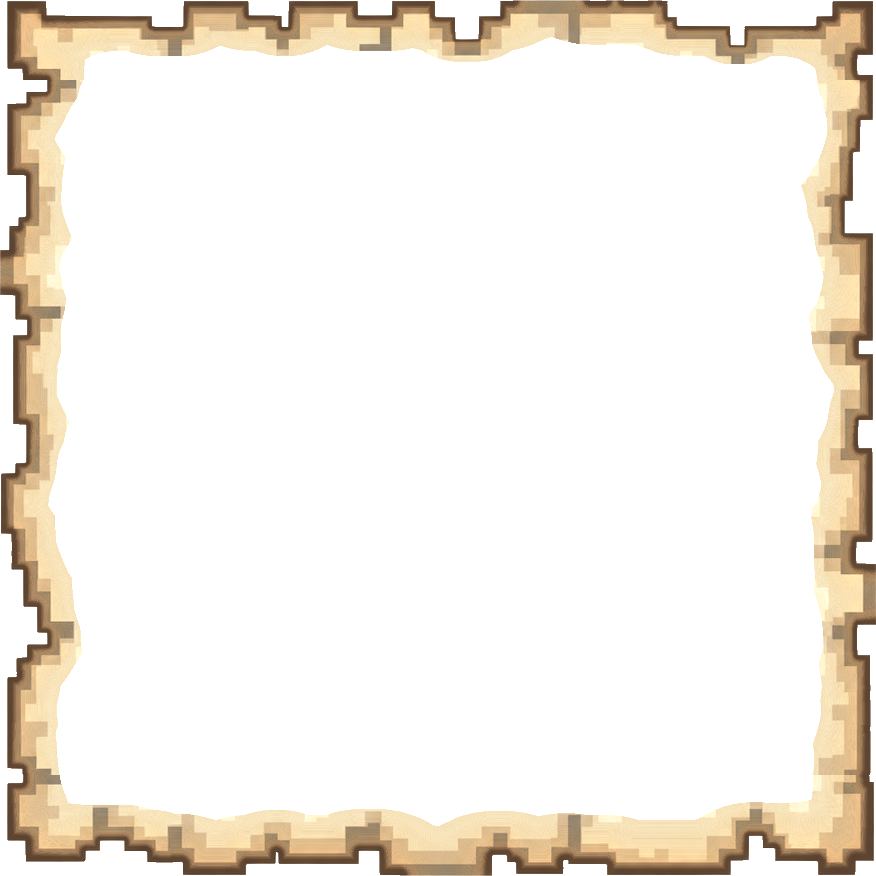
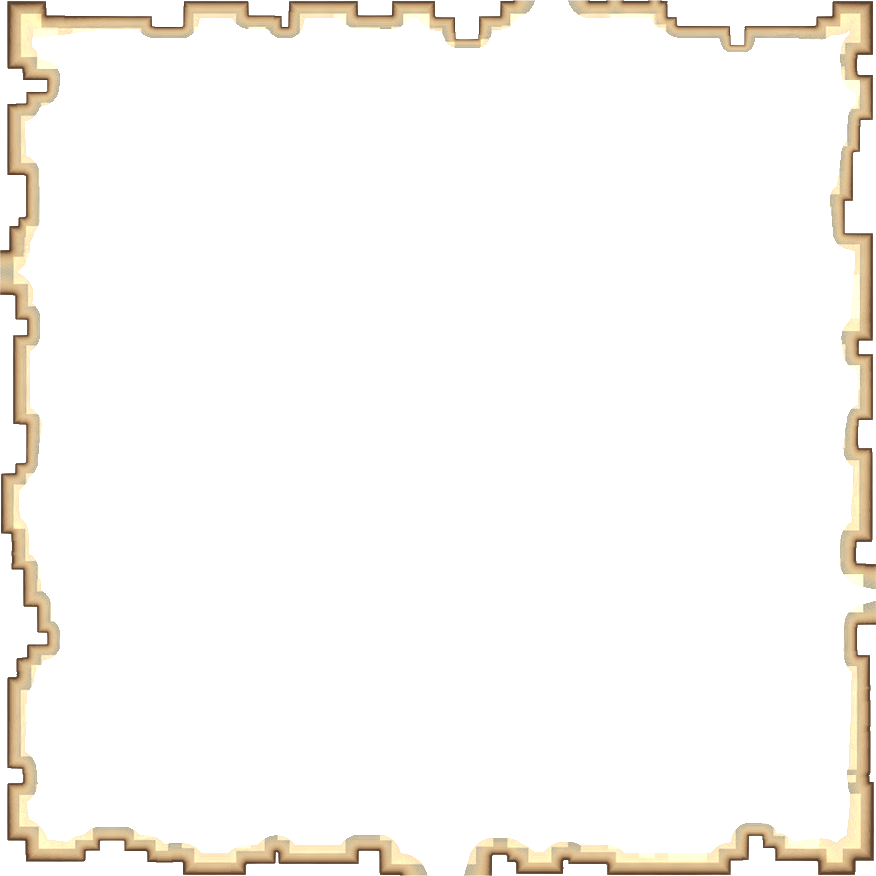
Thin the parchment border further and fix truncated title on phones

Changed region(s): [[0.0, 0.0, 1.0, 1.0]]

diff --git a/src/components/ExplorerMap.tsx b/src/components/ExplorerMap.tsx
@@ -400,11 +400,11 @@ export function ExplorerMap() {
 
       {/* floating top bar, Google Maps style */}
       <header className={`slot-panel absolute left-1/2 top-[max(3%,14px)] z-30 flex w-[min(86vw,560px)] -translate-x-1/2 items-center gap-2 px-3 py-2 transition-[margin] duration-300 ${drawer ? "sm:ml-36" : ""}`}>
-        <h1 className="min-w-0 truncate font-pixel text-[10px] text-parchment text-shadow-block sm:text-sm">USF Explorer Map</h1>
-        <div className="ml-auto shrink-0 font-pixel text-[8px] text-gold sm:text-[10px]">🗺 {pct.toFixed(0)}% • ⛏ {count}/{LANDMARKS.length}</div>
-        <div className="flex shrink-0 gap-1.5 sm:hidden">
-          <button onClick={() => setDrawer((d) => (d === "progress" ? null : "progress"))} aria-label="Toggle progress panel" className="mc-btn min-h-8 px-2 py-1 font-pixel text-[9px]">🏆</button>
-          <button onClick={() => setDrawer((d) => (d === "info" ? null : "info"))} aria-label="Toggle campus info panel" className="mc-btn min-h-8 px-2 py-1 font-pixel text-[9px]">📖</button>
+        <h1 className="min-w-0 truncate font-pixel text-[9px] text-parchment text-shadow-block sm:text-sm"><span className="sm:hidden">USF Explorer</span><span className="hidden sm:inline">USF Explorer Map</span></h1>
+        <div className="ml-auto shrink-0 font-pixel text-[8px] text-gold sm:text-[10px]">{pct.toFixed(0)}% • {count}/{LANDMARKS.length}</div>
+        <div className="flex shrink-0 gap-1 sm:hidden">
+          <button onClick={() => setDrawer((d) => (d === "progress" ? null : "progress"))} aria-label="Toggle progress panel" className="mc-btn min-h-8 px-1.5 py-1 font-pixel text-[9px]">🏆</button>
+          <button onClick={() => setDrawer((d) => (d === "info" ? null : "info"))} aria-label="Toggle campus info panel" className="mc-btn min-h-8 px-1.5 py-1 font-pixel text-[9px]">📖</button>
         </div>
       </header>
 
